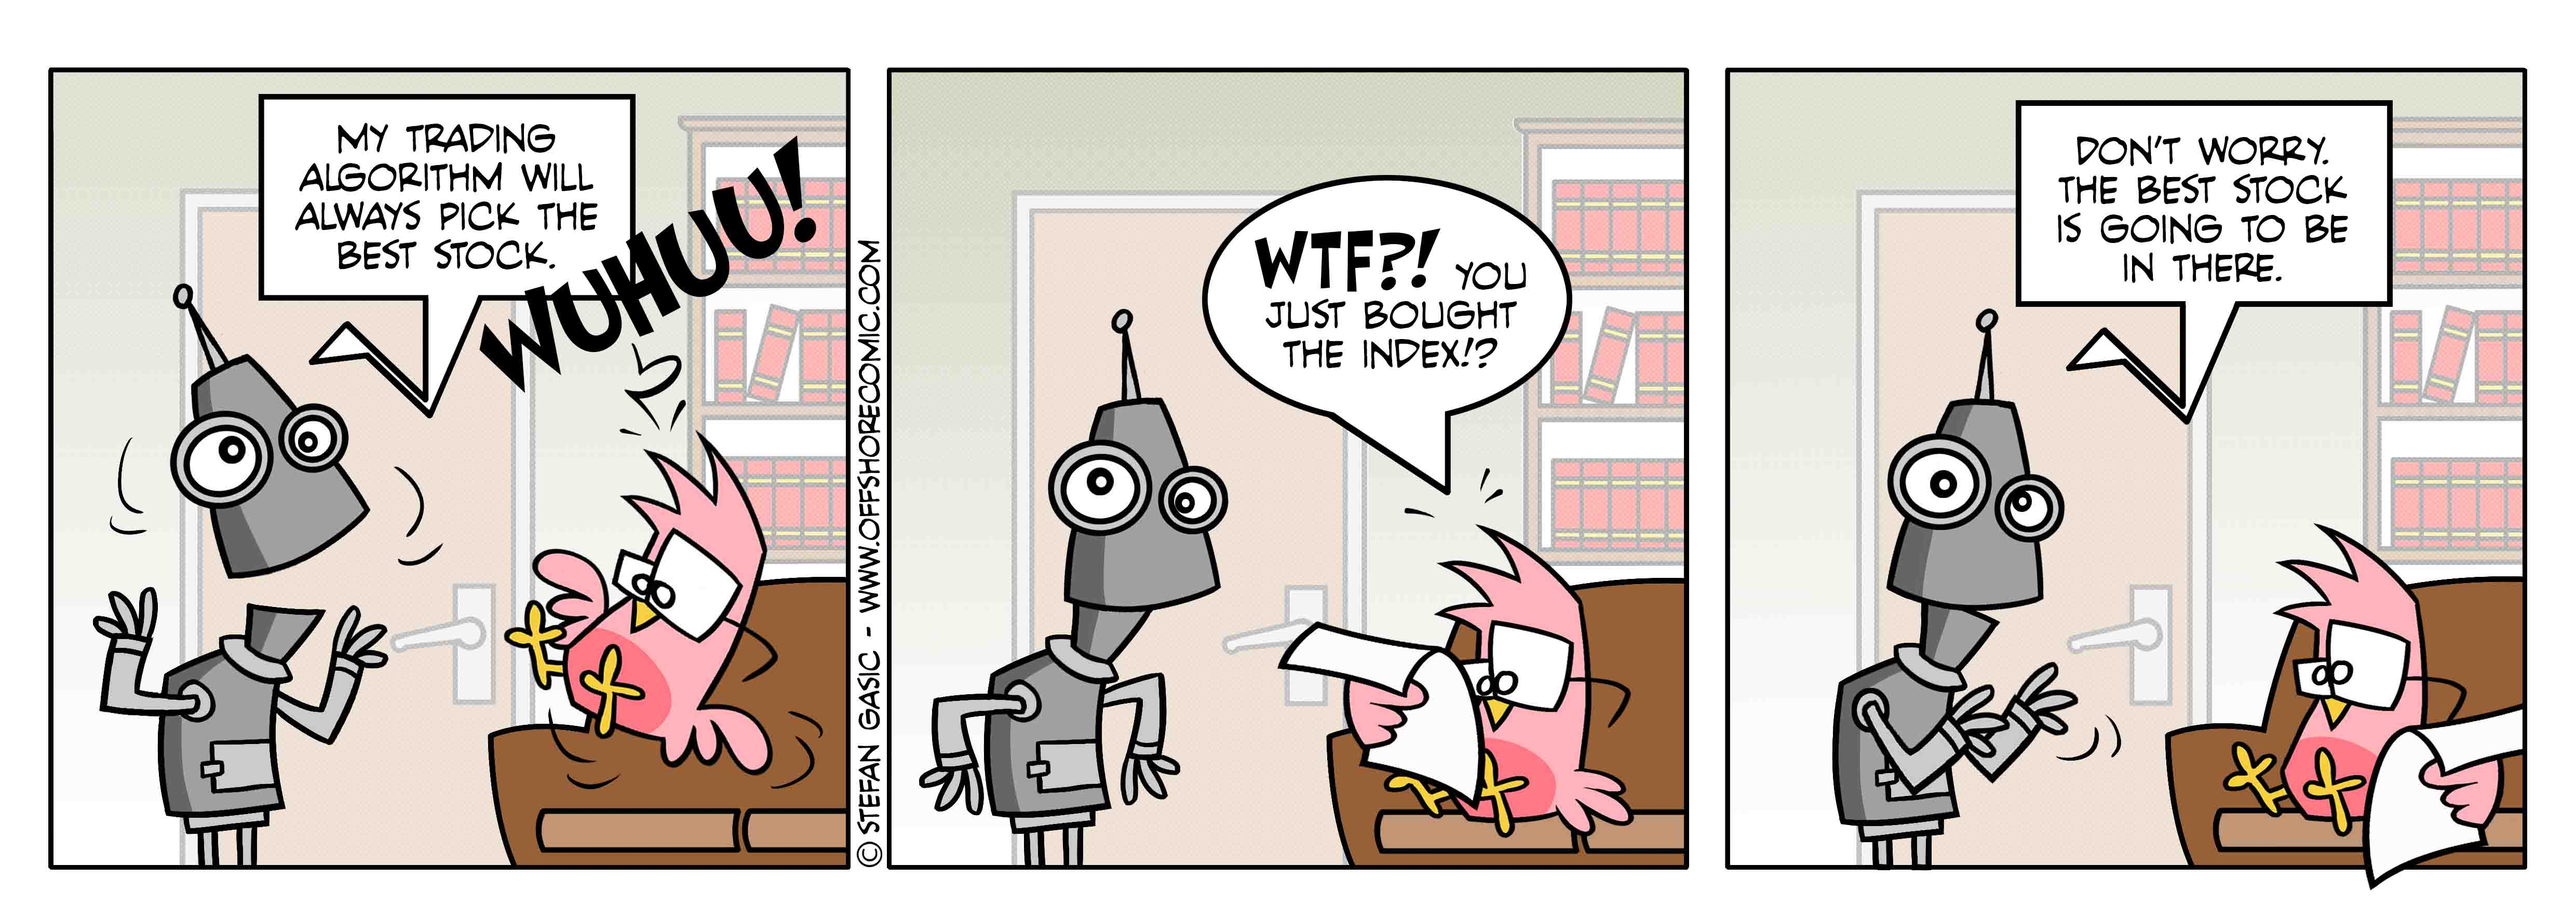
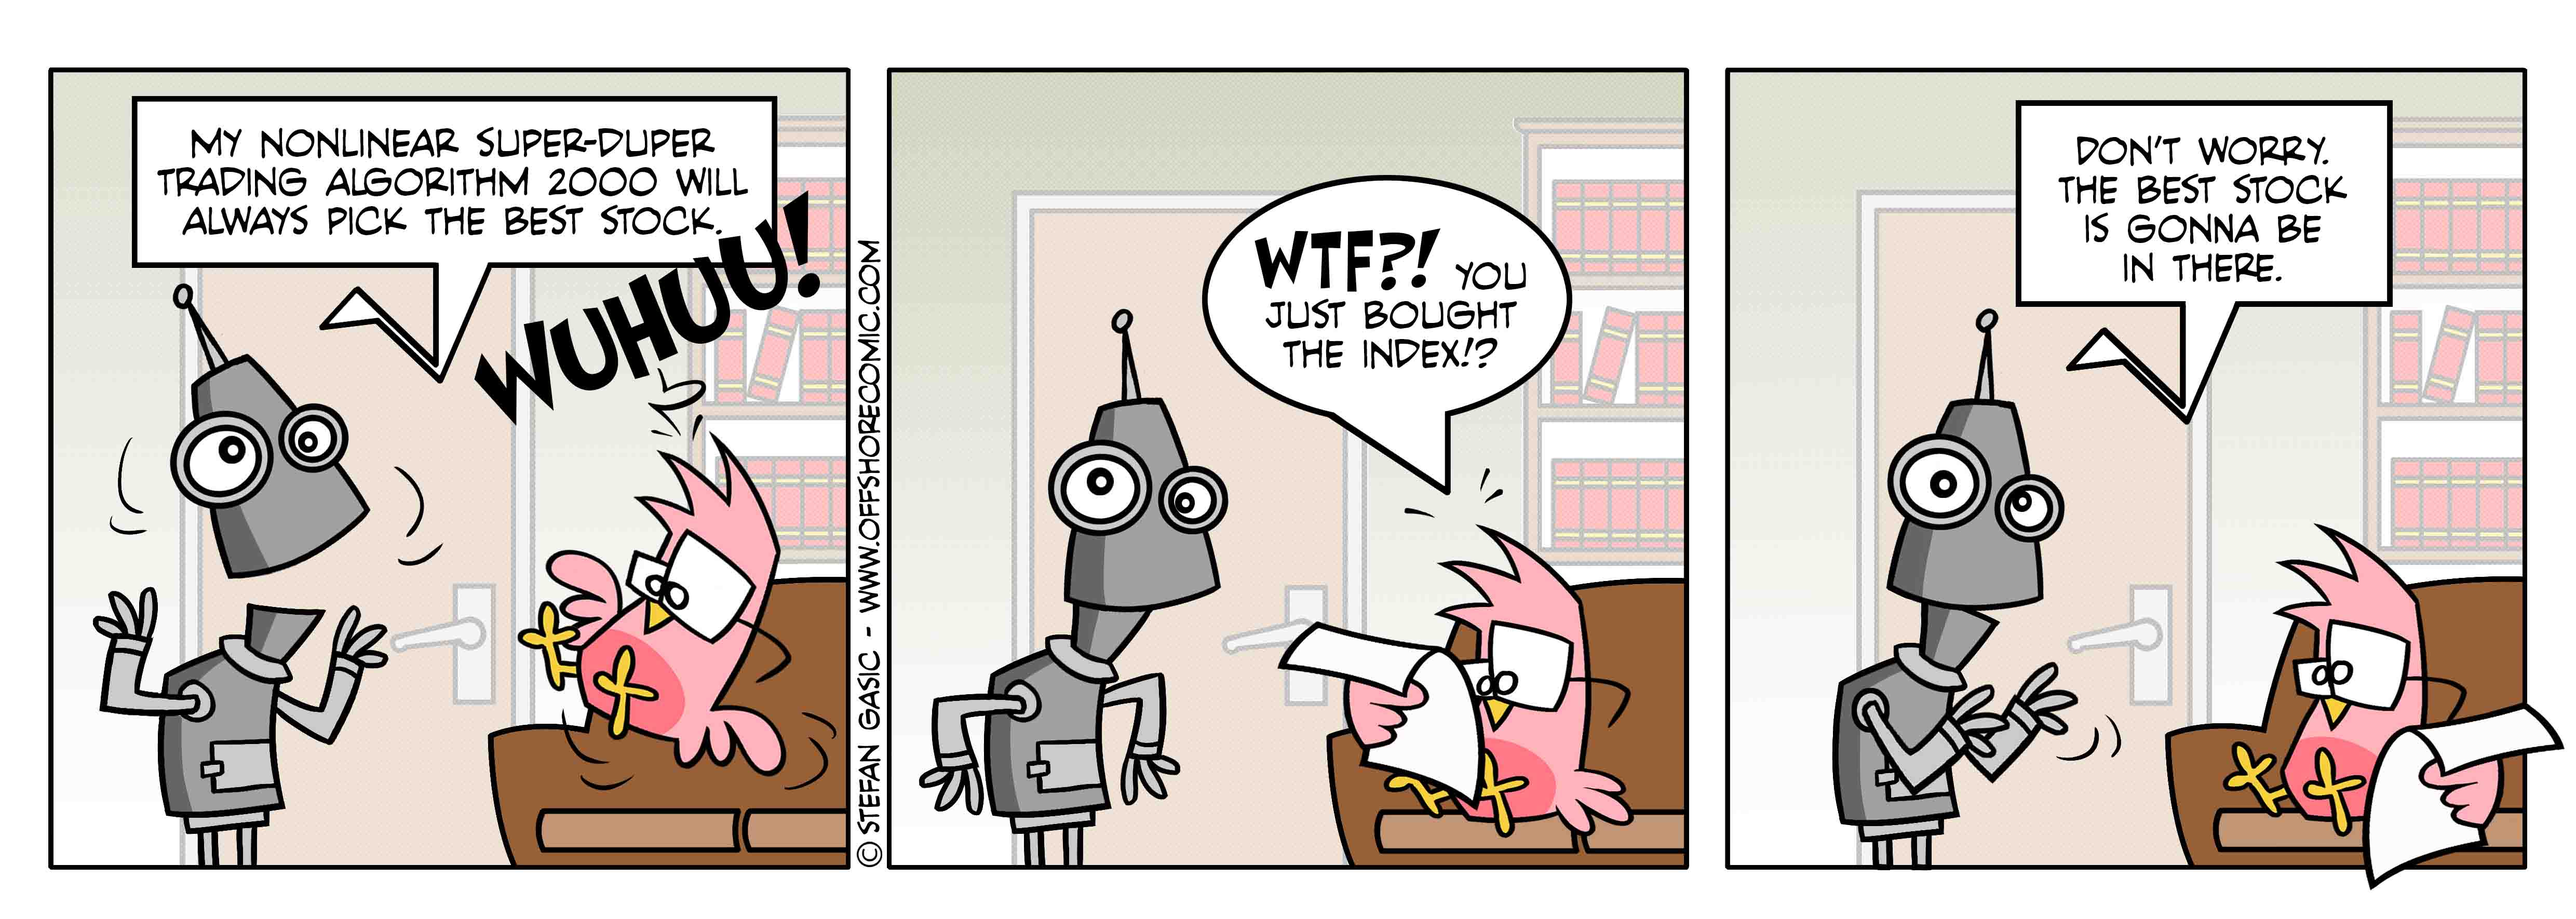
Added a new strip and updated the html and js codes accordingly.

diff --git a/myscripts.js b/myscripts.js
@@ -1,4 +1,4 @@
-var Strips = ["images/S440.jpg","images/S439.jpg","images/S438.jpg","images/S437.jpg","images/S436.jpg","images/S435.jpg","images/S434.jpg","images/S433.jpg","images/S432.jpg","images/S431.jpg","images/S430.jpg","images/S429.jpg","images/S428.jpg","images/S427.jpg","images/S426.jpg","images/S425.jpg","images/S424.jpg","images/S423.jpg","images/S422.jpg","images/S421.jpg","images/S420.jpg","images/S419.jpg","images/S418.jpg","images/S417.jpg","images/S416.jpg","images/S415.jpg","images/S414.jpg","images/S413.jpg","images/S412.jpg","images/S411.jpg","images/S410.jpg","images/S409.jpg","images/S408.jpg","images/S407.jpg","images/S406.jpg","images/S405.jpg","images/S404.jpg","images/S403.jpg","images/S402.jpg","images/S401.jpg","images/S400.jpg","images/S399.jpg","images/S398.jpg","images/S397.jpg","images/S396.jpg","images/S395.jpg","images/S394.jpg","images/S393.jpg","images/S392.jpg","images/S391.jpg","images/S390.jpg","images/S389.jpg","images/S388.jpg","images/S387.jpg","images/S386.jpg","images/S385.jpg","images/S384.jpg","images/S383.jpg","images/S382.jpg","images/S381.jpg","images/S380.jpg","images/S379.jpg","images/S378.jpg","images/S377.jpg","images/S376.jpg","images/S375.jpg","images/S374.jpg","images/S373.jpg","images/S372.jpg","images/S371.jpg","images/S370.jpg","images/S369.jpg","images/S368.jpg","images/S367.jpg","images/S366.jpg","images/S365.jpg","images/S364.jpg","images/S363.jpg","images/S362.jpg","images/S361.jpg","images/S360.jpg","images/S359.jpg","images/S358.jpg","images/S357.jpg","images/S356.jpg","images/S355.jpg","images/S354.jpg","images/S353.jpg","images/S352.jpg","images/S351.jpg","images/S350.jpg","images/S349.jpg","images/S348.jpg","images/S347.jpg","images/S346.jpg","images/S345.jpg","images/S344.jpg","images/S343.jpg","images/S342.jpg","images/S341.jpg","images/S340.jpg","images/S339.jpg","images/S338.jpg","images/S337.jpg","images/S336.jpg","images/S335.jpg","images/S334.jpg","images/S333.jpg","images/S332.jpg","images/S331.jpg","images/S330.jpg","images/S329.jpg","images/S328.jpg","images/S327.jpg","images/S326.jpg","images/S325.jpg","images/S324.jpg","images/S323.jpg","images/S322.jpg","images/S321.jpg","images/S320.jpg","images/S319.jpg","images/S318.jpg","images/S317.jpg","images/S316.jpg","images/S315.jpg","images/S314.jpg","images/S313.jpg","images/S312.jpg","images/S311.jpg","images/S310.jpg","images/S309.jpg","images/S308.jpg","images/S307.jpg","images/S306.jpg","images/S305.jpg","images/S304.jpg","images/S303.jpg","images/S302.jpg","images/S301.jpg","images/S300.jpg","images/S299.jpg","images/S298.jpg","images/S297.jpg","images/S296.jpg","images/S295.jpg","images/S294.jpg","images/S293.jpg","images/S292.jpg","images/S291.jpg","images/S290.jpg","images/S289.jpg","images/S288.jpg","images/S287.jpg","images/S286.jpg","images/S285.jpg","images/S284.jpg","images/S283.jpg","images/S282.jpg","images/S281.jpg","images/S280.jpg","images/S279.jpg","images/S278.jpg","images/S277.jpg","images/S276.jpg","images/S275.jpg","images/S274.jpg","images/S273.jpg","images/S272.jpg","images/S271.jpg","images/S270.jpg","images/S269.jpg","images/S268.jpg","images/S267.jpg","images/S266.jpg","images/S265.jpg","images/S264.jpg","images/S263.jpg","images/S262.jpg","images/S261.jpg","images/S260.jpg","images/S259.jpg","images/S258.jpg","images/S257.jpg","images/S256.jpg","images/S255.jpg","images/S254.jpg","images/S253.jpg","images/S252.jpg","images/S251.jpg","images/S250.jpg","images/S249.jpg","images/S248.jpg","images/S247.jpg","images/S246.jpg","images/S245.jpg","images/S244.jpg","images/S243.jpg","images/S242.jpg","images/S241.jpg","images/S240.jpg","images/S239.jpg","images/S238.jpg","images/S237.jpg","images/S236.jpg","images/S235.jpg","images/S234.jpg","images/S233.jpg","images/S232.jpg","images/S231.jpg","images/S230.jpg","images/S229.jpg","images/S228.jpg","images/S227.jpg","images/S226.jpg","images/S225.jpg","images/S224.jpg","images/S223.jpg","images/S222.jpg","images/S221.jpg","images/S220.jpg","images/S219.jpg","images/S218.jpg","images/S217.jpg","images/S216.jpg","images/S215.jpg","images/S214.jpg","images/S213.jpg","images/S212.jpg","images/S211.jpg","images/S210.jpg","images/S209.jpg","images/S208.jpg","images/S207.jpg","images/S206.jpg","images/S205.jpg","images/S204.jpg","images/S203.jpg","images/S202.jpg","images/S201.jpg","images/S200.jpg","images/S199.jpg","images/S198.jpg","images/S197.jpg","images/S196.jpg","images/S195.jpg","images/S194.jpg","images/S193.jpg","images/S192.jpg","images/S191.jpg","images/S190.jpg","images/S189.jpg","images/S188.jpg","images/S187.jpg","images/S186.jpg","images/S185.jpg","images/S184.jpg","images/S183.jpg","images/S182.jpg","images/S181.jpg","images/S180.jpg","images/S179.jpg","images/S178.jpg","images/S177.jpg","images/S176.jpg","images/S175.jpg","images/S174.jpg","images/S173.jpg","images/S172.jpg","images/S171.jpg","images/S170.jpg","images/S169.jpg","images/S168.jpg","images/S167.jpg","images/S166.jpg","images/S165.jpg","images/S164.jpg","images/S163.jpg","images/S162.jpg","images/S161.jpg","images/S160.jpg","images/S159.jpg","images/S158.jpg","images/S157.jpg","images/S156.jpg","images/S155.jpg","images/S154.jpg","images/S153.jpg","images/S152.jpg","images/S151.jpg","images/S150.jpg","images/S149.jpg","images/S148.jpg","images/S147.jpg","images/S146.jpg","images/S145.jpg","images/S144.jpg","images/S143.jpg","images/S142.jpg","images/S141.jpg","images/S140.jpg","images/S139.jpg","images/S138.jpg","images/S137.jpg","images/S136.jpg","images/S135.jpg","images/S134.jpg","images/S133.jpg","images/S132.jpg","images/S131.jpg","images/S130.jpg","images/S129.jpg","images/S128.jpg","images/S127.jpg","images/S126.jpg","images/S125.jpg","images/S124.jpg","images/S123.jpg","images/S122.jpg","images/S121.jpg","images/S120.jpg","images/S119.jpg","images/S118.jpg","images/S117.jpg","images/S116.jpg","images/S115.jpg","images/S114.jpg","images/S113.jpg","images/S112.jpg","images/S111.jpg","images/S110.jpg","images/S109.jpg","images/S108.jpg","images/S107.jpg","images/S106.jpg","images/S105.jpg","images/S104.jpg","images/S103.jpg","images/S102.jpg","images/S101.jpg","images/S100.jpg","images/S99.jpg","images/S98.jpg","images/S97.jpg","images/S96.jpg","images/S95.jpg","images/S94.jpg","images/S93.jpg","images/S92.jpg","images/S91.jpg","images/S90.jpg","images/S89.jpg","images/S88.jpg","images/S87.jpg","images/S86.jpg","images/S85.jpg","images/S84.jpg","images/S83.jpg","images/S82.jpg","images/S81.jpg","images/S80.jpg","images/S79.jpg","images/S78.jpg","images/S77.jpg","images/S76.jpg","images/S75.jpg","images/S74.jpg","images/S73.jpg","images/S72.jpg","images/S71.jpg","images/S70.jpg","images/S69.jpg","images/S68.jpg","images/S67.jpg","images/S66.jpg","images/S65.jpg","images/S64.jpg","images/S63.jpg","images/S62.jpg","images/S61.jpg","images/S60.jpg","images/S59.jpg","images/S58.jpg","images/S57.jpg","images/S56.jpg","images/S55.jpg","images/S54.jpg","images/S53.jpg","images/S52.jpg","images/S51.jpg","images/S50.jpg","images/S49.jpg","images/S48.jpg","images/S47.jpg","images/S46.jpg","images/S45.jpg","images/S44.jpg","images/S43.jpg","images/S42.jpg","images/S41.jpg","images/S40.jpg","images/S39.jpg","images/S38.jpg","images/S37.jpg","images/S36.jpg","images/S35.jpg","images/S34.jpg","images/S33.jpg","images/S32.jpg","images/S31.jpg","images/S30.jpg","images/S29.jpg","images/S28.jpg","images/S27.jpg","images/S26.jpg","images/S25.jpg","images/S24.jpg","images/S23.jpg","images/S22.jpg","images/S21.jpg","images/S20.jpg","images/S19.jpg","images/S18.jpg","images/S17.jpg","images/S16.jpg","images/S15.jpg","images/S14.jpg","images/S13.jpg","images/S12.jpg","images/S11.jpg","images/S10.jpg","images/S9.jpg","images/S8.jpg","images/S7.jpg","images/S6.jpg","images/S5.jpg","images/S4.jpg","images/S3.jpg","images/S2.jpg","images/S1.jpg"];
+var Strips = ["images/S441.jpg","images/S440.jpg","images/S439.jpg","images/S438.jpg","images/S437.jpg","images/S436.jpg","images/S435.jpg","images/S434.jpg","images/S433.jpg","images/S432.jpg","images/S431.jpg","images/S430.jpg","images/S429.jpg","images/S428.jpg","images/S427.jpg","images/S426.jpg","images/S425.jpg","images/S424.jpg","images/S423.jpg","images/S422.jpg","images/S421.jpg","images/S420.jpg","images/S419.jpg","images/S418.jpg","images/S417.jpg","images/S416.jpg","images/S415.jpg","images/S414.jpg","images/S413.jpg","images/S412.jpg","images/S411.jpg","images/S410.jpg","images/S409.jpg","images/S408.jpg","images/S407.jpg","images/S406.jpg","images/S405.jpg","images/S404.jpg","images/S403.jpg","images/S402.jpg","images/S401.jpg","images/S400.jpg","images/S399.jpg","images/S398.jpg","images/S397.jpg","images/S396.jpg","images/S395.jpg","images/S394.jpg","images/S393.jpg","images/S392.jpg","images/S391.jpg","images/S390.jpg","images/S389.jpg","images/S388.jpg","images/S387.jpg","images/S386.jpg","images/S385.jpg","images/S384.jpg","images/S383.jpg","images/S382.jpg","images/S381.jpg","images/S380.jpg","images/S379.jpg","images/S378.jpg","images/S377.jpg","images/S376.jpg","images/S375.jpg","images/S374.jpg","images/S373.jpg","images/S372.jpg","images/S371.jpg","images/S370.jpg","images/S369.jpg","images/S368.jpg","images/S367.jpg","images/S366.jpg","images/S365.jpg","images/S364.jpg","images/S363.jpg","images/S362.jpg","images/S361.jpg","images/S360.jpg","images/S359.jpg","images/S358.jpg","images/S357.jpg","images/S356.jpg","images/S355.jpg","images/S354.jpg","images/S353.jpg","images/S352.jpg","images/S351.jpg","images/S350.jpg","images/S349.jpg","images/S348.jpg","images/S347.jpg","images/S346.jpg","images/S345.jpg","images/S344.jpg","images/S343.jpg","images/S342.jpg","images/S341.jpg","images/S340.jpg","images/S339.jpg","images/S338.jpg","images/S337.jpg","images/S336.jpg","images/S335.jpg","images/S334.jpg","images/S333.jpg","images/S332.jpg","images/S331.jpg","images/S330.jpg","images/S329.jpg","images/S328.jpg","images/S327.jpg","images/S326.jpg","images/S325.jpg","images/S324.jpg","images/S323.jpg","images/S322.jpg","images/S321.jpg","images/S320.jpg","images/S319.jpg","images/S318.jpg","images/S317.jpg","images/S316.jpg","images/S315.jpg","images/S314.jpg","images/S313.jpg","images/S312.jpg","images/S311.jpg","images/S310.jpg","images/S309.jpg","images/S308.jpg","images/S307.jpg","images/S306.jpg","images/S305.jpg","images/S304.jpg","images/S303.jpg","images/S302.jpg","images/S301.jpg","images/S300.jpg","images/S299.jpg","images/S298.jpg","images/S297.jpg","images/S296.jpg","images/S295.jpg","images/S294.jpg","images/S293.jpg","images/S292.jpg","images/S291.jpg","images/S290.jpg","images/S289.jpg","images/S288.jpg","images/S287.jpg","images/S286.jpg","images/S285.jpg","images/S284.jpg","images/S283.jpg","images/S282.jpg","images/S281.jpg","images/S280.jpg","images/S279.jpg","images/S278.jpg","images/S277.jpg","images/S276.jpg","images/S275.jpg","images/S274.jpg","images/S273.jpg","images/S272.jpg","images/S271.jpg","images/S270.jpg","images/S269.jpg","images/S268.jpg","images/S267.jpg","images/S266.jpg","images/S265.jpg","images/S264.jpg","images/S263.jpg","images/S262.jpg","images/S261.jpg","images/S260.jpg","images/S259.jpg","images/S258.jpg","images/S257.jpg","images/S256.jpg","images/S255.jpg","images/S254.jpg","images/S253.jpg","images/S252.jpg","images/S251.jpg","images/S250.jpg","images/S249.jpg","images/S248.jpg","images/S247.jpg","images/S246.jpg","images/S245.jpg","images/S244.jpg","images/S243.jpg","images/S242.jpg","images/S241.jpg","images/S240.jpg","images/S239.jpg","images/S238.jpg","images/S237.jpg","images/S236.jpg","images/S235.jpg","images/S234.jpg","images/S233.jpg","images/S232.jpg","images/S231.jpg","images/S230.jpg","images/S229.jpg","images/S228.jpg","images/S227.jpg","images/S226.jpg","images/S225.jpg","images/S224.jpg","images/S223.jpg","images/S222.jpg","images/S221.jpg","images/S220.jpg","images/S219.jpg","images/S218.jpg","images/S217.jpg","images/S216.jpg","images/S215.jpg","images/S214.jpg","images/S213.jpg","images/S212.jpg","images/S211.jpg","images/S210.jpg","images/S209.jpg","images/S208.jpg","images/S207.jpg","images/S206.jpg","images/S205.jpg","images/S204.jpg","images/S203.jpg","images/S202.jpg","images/S201.jpg","images/S200.jpg","images/S199.jpg","images/S198.jpg","images/S197.jpg","images/S196.jpg","images/S195.jpg","images/S194.jpg","images/S193.jpg","images/S192.jpg","images/S191.jpg","images/S190.jpg","images/S189.jpg","images/S188.jpg","images/S187.jpg","images/S186.jpg","images/S185.jpg","images/S184.jpg","images/S183.jpg","images/S182.jpg","images/S181.jpg","images/S180.jpg","images/S179.jpg","images/S178.jpg","images/S177.jpg","images/S176.jpg","images/S175.jpg","images/S174.jpg","images/S173.jpg","images/S172.jpg","images/S171.jpg","images/S170.jpg","images/S169.jpg","images/S168.jpg","images/S167.jpg","images/S166.jpg","images/S165.jpg","images/S164.jpg","images/S163.jpg","images/S162.jpg","images/S161.jpg","images/S160.jpg","images/S159.jpg","images/S158.jpg","images/S157.jpg","images/S156.jpg","images/S155.jpg","images/S154.jpg","images/S153.jpg","images/S152.jpg","images/S151.jpg","images/S150.jpg","images/S149.jpg","images/S148.jpg","images/S147.jpg","images/S146.jpg","images/S145.jpg","images/S144.jpg","images/S143.jpg","images/S142.jpg","images/S141.jpg","images/S140.jpg","images/S139.jpg","images/S138.jpg","images/S137.jpg","images/S136.jpg","images/S135.jpg","images/S134.jpg","images/S133.jpg","images/S132.jpg","images/S131.jpg","images/S130.jpg","images/S129.jpg","images/S128.jpg","images/S127.jpg","images/S126.jpg","images/S125.jpg","images/S124.jpg","images/S123.jpg","images/S122.jpg","images/S121.jpg","images/S120.jpg","images/S119.jpg","images/S118.jpg","images/S117.jpg","images/S116.jpg","images/S115.jpg","images/S114.jpg","images/S113.jpg","images/S112.jpg","images/S111.jpg","images/S110.jpg","images/S109.jpg","images/S108.jpg","images/S107.jpg","images/S106.jpg","images/S105.jpg","images/S104.jpg","images/S103.jpg","images/S102.jpg","images/S101.jpg","images/S100.jpg","images/S99.jpg","images/S98.jpg","images/S97.jpg","images/S96.jpg","images/S95.jpg","images/S94.jpg","images/S93.jpg","images/S92.jpg","images/S91.jpg","images/S90.jpg","images/S89.jpg","images/S88.jpg","images/S87.jpg","images/S86.jpg","images/S85.jpg","images/S84.jpg","images/S83.jpg","images/S82.jpg","images/S81.jpg","images/S80.jpg","images/S79.jpg","images/S78.jpg","images/S77.jpg","images/S76.jpg","images/S75.jpg","images/S74.jpg","images/S73.jpg","images/S72.jpg","images/S71.jpg","images/S70.jpg","images/S69.jpg","images/S68.jpg","images/S67.jpg","images/S66.jpg","images/S65.jpg","images/S64.jpg","images/S63.jpg","images/S62.jpg","images/S61.jpg","images/S60.jpg","images/S59.jpg","images/S58.jpg","images/S57.jpg","images/S56.jpg","images/S55.jpg","images/S54.jpg","images/S53.jpg","images/S52.jpg","images/S51.jpg","images/S50.jpg","images/S49.jpg","images/S48.jpg","images/S47.jpg","images/S46.jpg","images/S45.jpg","images/S44.jpg","images/S43.jpg","images/S42.jpg","images/S41.jpg","images/S40.jpg","images/S39.jpg","images/S38.jpg","images/S37.jpg","images/S36.jpg","images/S35.jpg","images/S34.jpg","images/S33.jpg","images/S32.jpg","images/S31.jpg","images/S30.jpg","images/S29.jpg","images/S28.jpg","images/S27.jpg","images/S26.jpg","images/S25.jpg","images/S24.jpg","images/S23.jpg","images/S22.jpg","images/S21.jpg","images/S20.jpg","images/S19.jpg","images/S18.jpg","images/S17.jpg","images/S16.jpg","images/S15.jpg","images/S14.jpg","images/S13.jpg","images/S12.jpg","images/S11.jpg","images/S10.jpg","images/S9.jpg","images/S8.jpg","images/S7.jpg","images/S6.jpg","images/S5.jpg","images/S4.jpg","images/S3.jpg","images/S2.jpg","images/S1.jpg"];
 
 var Current = 0;
 var myStrip = null;

diff --git a/index.html b/index.html
@@ -39,7 +39,7 @@
         <div class="count">
           <strong><span id="currentCount"></span></strong> out of <strong><span id="totalCount"></span></strong>
         </div>
-		<div class="wrap-item1"><img src="images/S440.jpg" id="Strip"/></div>
+		<div class="wrap-item1"><img src="images/S441.jpg" id="Strip"/></div>
 		<div class="wrapper3">
 			<div class="wrap-item3">
 			<button class="button" onClick="Last();">&lsaquo;&lsaquo;</button>
